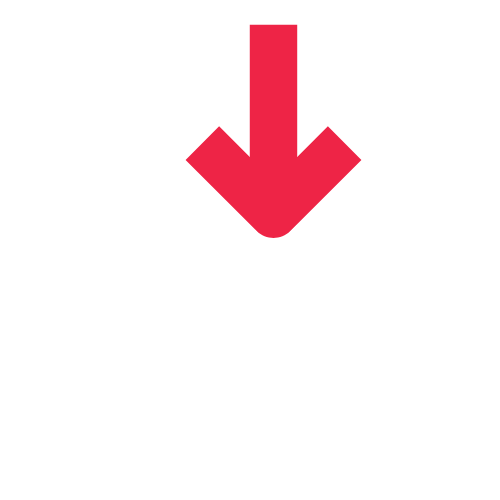
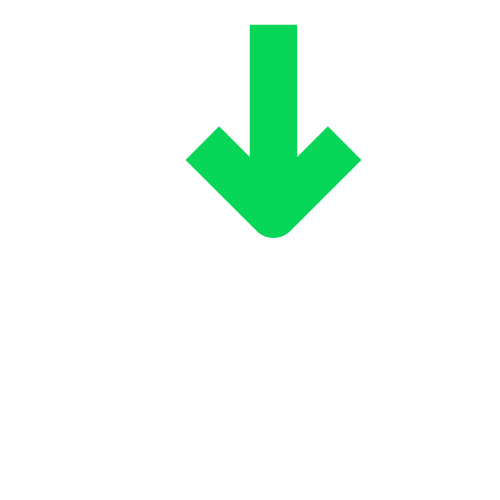
méthode rouge vert, ajout du java, mise en place de déséquilibre dans les seed

Changed region(s): [[0.36, 0.03, 0.72, 0.48]]

diff --git a/app/javascript/controllers/map_controller.js b/app/javascript/controllers/map_controller.js
@@ -32,7 +32,7 @@ export default class extends Controller {
       customMarker.style.backgroundSize = "contain"
       customMarker.style.width = "70px"
       customMarker.style.height = "50px"
-      const infos = "<div class='infos'><span>122€</span></div>"
+      const infos = `<div class='infos'><span class="${marker.color}">${marker.total_price}</span></div>`
 
       customMarker.insertAdjacentHTML("beforeend", infos)
 

diff --git a/app/assets/stylesheets/components/_marker.scss b/app/assets/stylesheets/components/_marker.scss
@@ -5,10 +5,17 @@
     position: absolute;
     bottom: 0;
     left: 5px;
-    background-color: #08D057;
     padding-left:5px;
     padding-right:5px;
     border-radius: 5px;
     color: white;
   }
+  .green {
+    background-color: $green;
+  }
+
+  .red {
+    background-color: $red;
+  }
+
 }

diff --git a/db/seeds.rb b/db/seeds.rb
@@ -81,59 +81,60 @@ Product.create!(name: "Carte Noire Café 3x250g", mean_price: "11.09")
 Product.create!(name: "Catsan Litière Hygiène Plus 10L", mean_price: "4.89")
 Product.create!(name: "Lotus Confort Papier Toilette x24", mean_price: "9.59")
 Product.create!(name: "Sodebo Salade & Cie Manhattan", mean_price: "2.79")
-Product.create!(name: "Herta Le Bon Paris 4 tranches", mean_price: "")
+Product.create!(name: "Herta Le Bon Paris 4 tranches", mean_price: "3.0")
 Product.create!(name: "Pâtes coquillettes BARILLA", mean_price: "1.09")
-Product.create!(name: "Pâtes coquillettes PANZANI", mean_price: "1,95")
-Product.create!(name: "Pâtes penne rigate BARILLA", mean_price: "1,05")
-Product.create!(name: "Pâtes spaghetti PANZANI", mean_price: "1,05")
-Product.create!(name: "Pâtes torti PANZANI", mean_price: "1,99")
-Product.create!(name: "Pâtes linguine collezione BARILLA", mean_price: "1,19")
-Product.create!(name: "Pâtes spaghetti bio BARILLA", mean_price: "1,85")
-Product.create!(name: "Filets de poulet blanc LE GAULOIS x2", mean_price: "4,65")
-Product.create!(name: "Escalopes de dinde LE GAULOIS x2", mean_price: "10,19")
-Product.create!(name: "Cordon bleu poulet LE GAULOIS x2", mean_price: "2,05")
-Product.create!(name: "Cordon bleu de dinde PERE DODU x2", mean_price: "2,29")
-Product.create!(name: "Steak haché viande bovine 5% MG CHARAL x2", mean_price: "5,10")
-Product.create!(name: "Steak haché pur bœuf 15% MG CHARAL x10", mean_price: "1,09")
-Product.create!(name: "Viande Bovine: Pavé à griller CHARAL x2", mean_price: "8,21")
-Product.create!(name: "Huile Isio 4 ISIO 4", mean_price: "3,69")
-Product.create!(name: "Huile d'olive vierge extra PUGET 1l", mean_price: "8,79")
-Product.create!(name: "Sel fin iodé CEREBOS", mean_price: "0,88")
-Product.create!(name: "Sel de Guérande Label Rouge LE GUERANDAIS", mean_price: "2,49")
-Product.create!(name: "Poivre et épices DUCROS", mean_price: "2,05")
-Product.create!(name: "Blanc de poulet réduit en sel FLEURY MICHON x2", mean_price: "2,69")
-Product.create!(name: "Ketchup HEINZ 250g", mean_price: "1,16")
-Product.create!(name: "Ketchup AMORA", mean_price: "1,45")
-Product.create!(name: "Moutarde ancienne MAILLE", mean_price: "2,95")
-Product.create!(name: "Moutarde douce AMORA", mean_price: "1,09")
-Product.create!(name: "Parmigiano Reggiano AOP CASA AZZURRA", mean_price: "1,29")
-Product.create!(name: "Fromage à Tartiner Nature ST MORET", mean_price: "2,25")
-Product.create!(name: "Fromage Crème à tartiner KIRI", mean_price: "2,79")
-Product.create!(name: "Fromage Râpé Emmental PRESIDENT Maxi Format", mean_price: "1,99")
-Product.create!(name: "Fromage Râpé Comté AOP ENTREMONT", mean_price: "2,59")
-Product.create!(name: "Mozzarella GALBANI", mean_price: "1,19")
-Product.create!(name: "SAUCE TOMATES BASILIC BARILLA 400g", mean_price: "1,55")
-Product.create!(name: "SAUCE BOLOGNAISE RICHE BARILLA 400g", mean_price: "2,99")
-Product.create!(name: "SAUCE PESTO ROSSO BARILLA", mean_price: "2,19")
-Product.create!(name: "Crème Epaisse Légère 15% Mat.Gr. BRIDELICE 20cl", mean_price: "0,74")
-Product.create!(name: "Crème Semi-épaisse Légère 18% Mat.Gr. BRIDELICE", mean_price: "2,89")
-Product.create!(name: "Pâtes Fraîches Gnocchi à Poêler LUSTUCRU SELECTION", mean_price: "1,49")
-Product.create!(name: "Box Fusilli bolognaise SODEBO", mean_price: "2,59")
-Product.create!(name: "Lardons fumés sel réduit HERTA - 25% sel", mean_price: "2,19")
-Product.create!(name: "Œufs Bio Calibre Moyen Sans-Antibiotique Sans OGM LOUE x6", mean_price: "5,69")
-Product.create!(name: "Œufs Calibre Moyen Label Rouge Sans OGM LOUE x12", mean_price: "4,79")
-Product.create!(name: "Œufs Gros Coque Calibre Gros LUSTUCRU x6", mean_price: "2,09")
-Product.create!(name: "Biscuits fourrés au chocolat au blé complet Prince LU", mean_price: "3,79")
-Product.create!(name: "Blanc de poulet réduit en sel FLEURY MICHON x2", mean_price: "2,69")
-Product.create!(name: "Ketchup HEINZ 250g", mean_price: "1,16")
-Product.create!(name: "Ketchup AMORA", mean_price: "1,45")
-Product.create!(name: "Moutarde ancienne MAILLE", mean_price: "2,95")
+Product.create!(name: "Pâtes coquillettes PANZANI", mean_price: "1.95")
+Product.create!(name: "Pâtes penne rigate BARILLA", mean_price: "1.05")
+Product.create!(name: "Pâtes spaghetti PANZANI", mean_price: "1.05")
+Product.create!(name: "Pâtes torti PANZANI", mean_price: "1.99")
+Product.create!(name: "Pâtes linguine collezione BARILLA", mean_price: "1.19")
+Product.create!(name: "Pâtes spaghetti bio BARILLA", mean_price: "1.85")
+Product.create!(name: "Filets de poulet blanc LE GAULOIS x2", mean_price: "4.65")
+Product.create!(name: "Escalopes de dinde LE GAULOIS x2", mean_price: "10.19")
+Product.create!(name: "Cordon bleu poulet LE GAULOIS x2", mean_price: "2.05")
+Product.create!(name: "Cordon bleu de dinde PERE DODU x2", mean_price: "2.29")
+Product.create!(name: "Steak haché viande bovine 5% MG CHARAL x2", mean_price: "5.10")
+Product.create!(name: "Steak haché pur bœuf 15% MG CHARAL x10", mean_price: "1.09")
+Product.create!(name: "Viande Bovine: Pavé à griller CHARAL x2", mean_price: "8.21")
+Product.create!(name: "Huile Isio 4 ISIO 4", mean_price: "3.69")
+Product.create!(name: "Huile d'olive vierge extra PUGET 1l", mean_price: "8.79")
+Product.create!(name: "Sel fin iodé CEREBOS", mean_price: "0.88")
+Product.create!(name: "Sel de Guérande Label Rouge LE GUERANDAIS", mean_price: "2.49")
+Product.create!(name: "Poivre et épices DUCROS", mean_price: "2.05")
+Product.create!(name: "Blanc de poulet réduit en sel FLEURY MICHON x2", mean_price: "2.69")
+Product.create!(name: "Ketchup HEINZ 250g", mean_price: "1.16")
+Product.create!(name: "Ketchup AMORA", mean_price: "1.45")
+Product.create!(name: "Moutarde ancienne MAILLE", mean_price: "2.95")
+Product.create!(name: "Moutarde douce AMORA", mean_price: "1.09")
+Product.create!(name: "Parmigiano Reggiano AOP CASA AZZURRA", mean_price: "1.29")
+Product.create!(name: "Fromage à Tartiner Nature ST MORET", mean_price: "2.25")
+Product.create!(name: "Fromage Crème à tartiner KIRI", mean_price: "2.79")
+Product.create!(name: "Fromage Râpé Emmental PRESIDENT Maxi Format", mean_price: "1.99")
+Product.create!(name: "Fromage Râpé Comté AOP ENTREMONT", mean_price: "2.59")
+Product.create!(name: "Mozzarella GALBANI", mean_price: "1.19")
+Product.create!(name: "SAUCE TOMATES BASILIC BARILLA 400g", mean_price: "1.55")
+Product.create!(name: "SAUCE BOLOGNAISE RICHE BARILLA 400g", mean_price: "2.99")
+Product.create!(name: "SAUCE PESTO ROSSO BARILLA", mean_price: "2.19")
+Product.create!(name: "Crème Epaisse Légère 15% Mat.Gr. BRIDELICE 20cl", mean_price: "0.74")
+Product.create!(name: "Crème Semi-épaisse Légère 18% Mat.Gr. BRIDELICE", mean_price: "2.89")
+Product.create!(name: "Pâtes Fraîches Gnocchi à Poêler LUSTUCRU SELECTION", mean_price: "1.49")
+Product.create!(name: "Box Fusilli bolognaise SODEBO", mean_price: "2.59")
+Product.create!(name: "Lardons fumés sel réduit HERTA - 25% sel", mean_price: "2.19")
+Product.create!(name: "Œufs Bio Calibre Moyen Sans-Antibiotique Sans OGM LOUE x6", mean_price: "5.69")
+Product.create!(name: "Œufs Calibre Moyen Label Rouge Sans OGM LOUE x12", mean_price: "4.79")
+Product.create!(name: "Œufs Gros Coque Calibre Gros LUSTUCRU x6", mean_price: "2.09")
+Product.create!(name: "Biscuits fourrés au chocolat au blé complet Prince LU", mean_price: "3.79")
+Product.create!(name: "Blanc de poulet réduit en sel FLEURY MICHON x2", mean_price: "2.69")
+Product.create!(name: "Ketchup HEINZ 250g", mean_price: "1.16")
+Product.create!(name: "Ketchup AMORA", mean_price: "1.45")
+Product.create!(name: "Moutarde ancienne MAILLE", mean_price: "2.95")
 
 puts "========= AJOUT DES MARKET PRODUCTS ========="
 
 Market.all.each do |market|
+  random = [0.9, 1.10, 0.8, 1.20, 1.40, 0.6, 0.85, 0.90, 1.12, 1.60].sample
   Product.all.each do |product|
-    MarketProduct.create!(product_id: product.id, market_id: market.id, price: product.mean_price)
+    MarketProduct.create!(product_id: product.id, market_id: market.id, price: product.mean_price * random)
   end
 end
 

diff --git a/app/controllers/markets_controller.rb b/app/controllers/markets_controller.rb
@@ -4,12 +4,15 @@ class MarketsController < ApplicationController
 
     # Marker pour géocoder (vic)
     @markers = @markets.geocoded.map do |market|
+      image = market.total_price > MarketProduct.average_price ? "ping-vert.png" : "ping-rouge.png"
+      color = market.total_price > MarketProduct.average_price ? "green" : "red"
       {
         lat: market.latitude,
         lng: market.longitude,
         info_window: render_to_string(partial: "info_window", locals: { market: market }),
-        image_url: helpers.asset_url("ping-vert.png")
-
+        image_url: helpers.asset_url(image),
+        total_price: market.total_price,
+        color: color
       }
     end
   end

diff --git a/db/schema.rb b/db/schema.rb
@@ -10,8 +10,7 @@
 #
 # It's strongly recommended that you check this file into your version control system.
 
-ActiveRecord::Schema[7.0].define(version: 2022_12_01_145425) do
-
+ActiveRecord::Schema[7.0].define(version: 2022_12_02_115304) do
   # These are extensions that must be enabled in order to support this database
   enable_extension "plpgsql"
 

diff --git a/app/models/market_product.rb b/app/models/market_product.rb
@@ -1,4 +1,16 @@
 class MarketProduct < ApplicationRecord
   belongs_to :market
   belongs_to :product
+
+  def test
+    puts 'trololo'
+  end
+
+  def self.average_price
+    sum = 0
+    all.each do |product|
+      sum += product.price  if product.price
+    end
+     sum / Market.count
+  end
 end

diff --git a/app/models/market.rb b/app/models/market.rb
@@ -7,4 +7,12 @@ class Market < ApplicationRecord
 
   def horaires
   end
+
+  def total_price
+    sum = 0
+    market_products.each do |product|
+      sum += product.price if product.price
+    end
+    sum
+  end
 end
